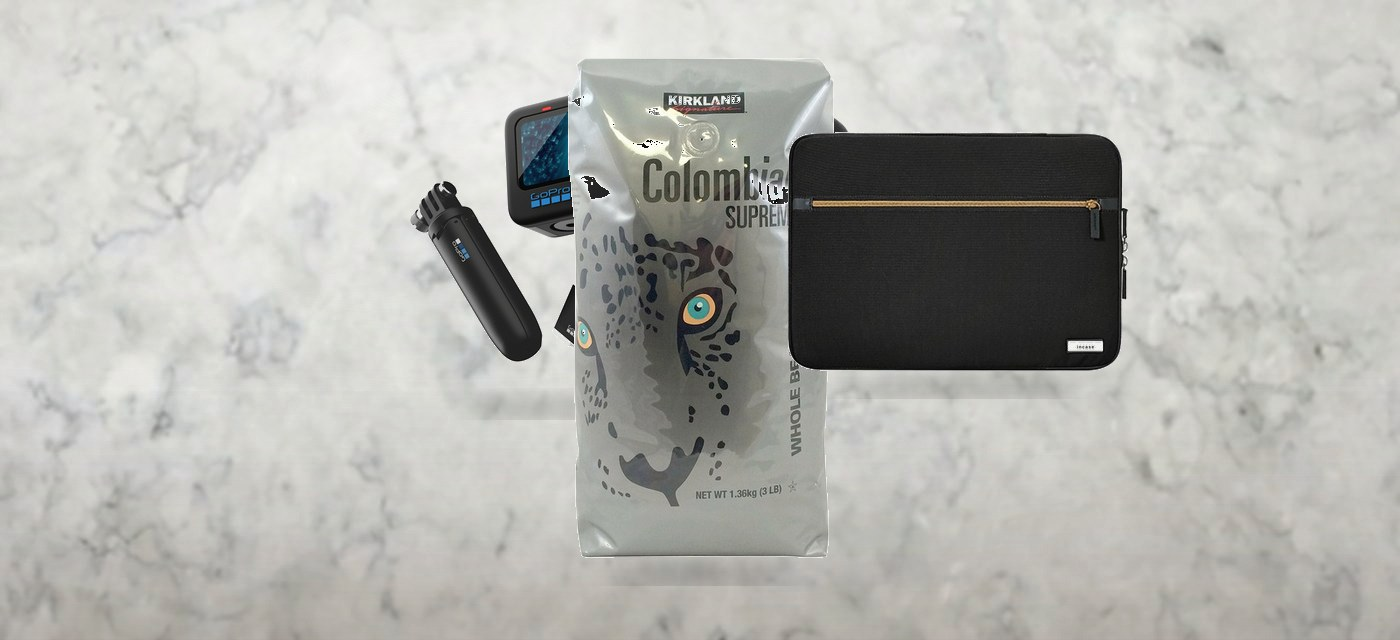
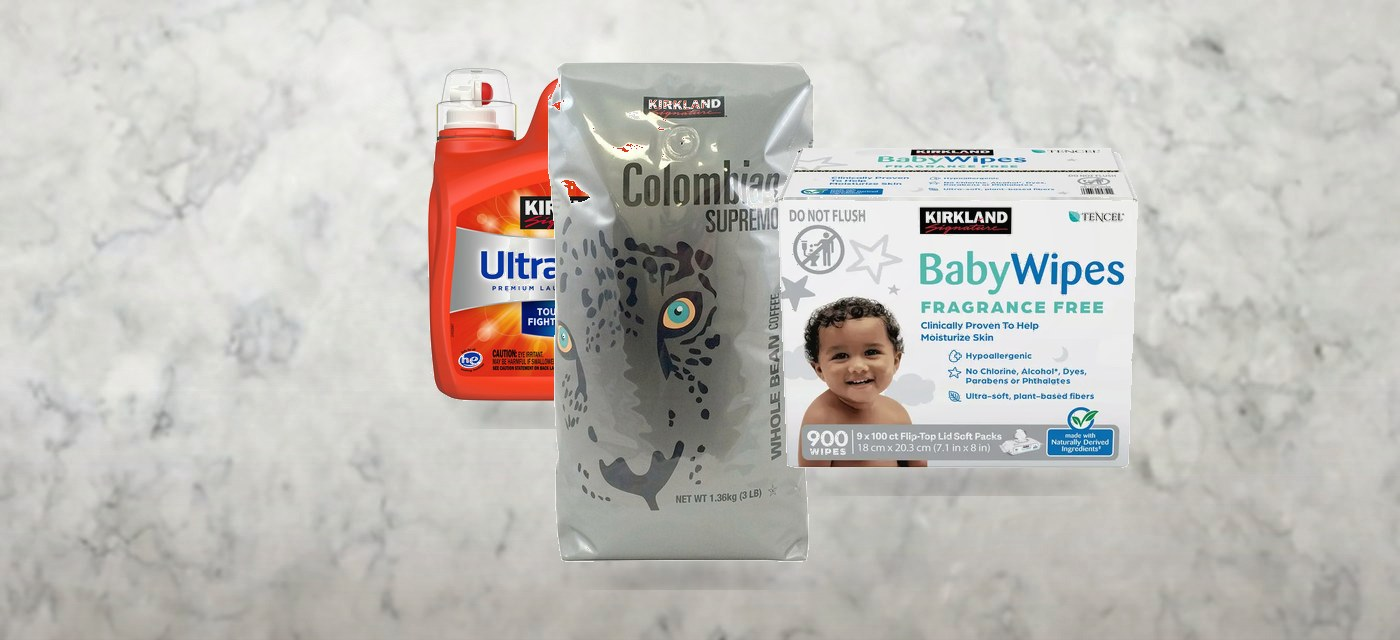
Restyle household collections and Kirk's Gold Star card
Swap the household tile to detergent, coffee, and wipes, and give
Ask Kirk cream Gold Star card stock so the agent rail reads like a
membership card rather than a generic chat header.

Changed region(s): [[0.2764, 0.0938, 0.8293, 0.875]]

diff --git a/components/AskKirkChat.tsx b/components/AskKirkChat.tsx
@@ -495,7 +495,7 @@ export default function AskKirkChat({ isOpen, onClose }: AskKirkChatProps) {
   return (
     <>
     <aside className="fixed inset-y-0 right-0 z-40 w-full max-w-[420px] lg:static lg:z-30 lg:w-[380px] xl:w-[420px] lg:max-w-none shrink-0 bg-white border-l border-[#e5e5e5] h-full flex flex-col">
-      <div className="shrink-0 border-b border-[#e5e5e5] bg-white">
+      <div className="shrink-0 border-b border-[#e5e5e5] bg-[#f7f1de]">
         <div className="h-[6px] bg-costco-red" />
         <div className="px-3.5 pt-2.5 pb-2 flex items-center justify-between gap-2">
           <CostcoLogo compact />
@@ -588,7 +588,7 @@ export default function AskKirkChat({ isOpen, onClose }: AskKirkChatProps) {
             return (
               <div
                 key={message.id}
-                className="bg-white border border-[#e8e8e8] rounded-[8px] overflow-hidden shadow-[0_2px_8px_rgba(0,0,0,0.08)]"
+                className="bg-[#f7f1de] border border-[#d4c194] rounded-[8px] overflow-hidden shadow-[0_2px_8px_rgba(0,0,0,0.08)]"
               >
                 <div className="h-[6px] bg-costco-red" />
                 <div className="px-3.5 py-3">
@@ -607,7 +607,7 @@ export default function AskKirkChat({ isOpen, onClose }: AskKirkChatProps) {
                   </div>
                 </div>
                 <div className="flex items-center gap-3 mb-2">
-                  <div className="w-[56px] h-[68px] rounded-[3px] border border-[#d8d8d8] bg-[#f3f3f3] flex items-center justify-center shrink-0">
+                  <div className="w-[56px] h-[68px] rounded-[3px] border border-[#c9b27a] bg-[#efe6c8] flex items-center justify-center shrink-0">
                     <KirkMark size={36} />
                   </div>
                   <div>

diff --git a/components/ProductGrid.tsx b/components/ProductGrid.tsx
@@ -181,22 +181,22 @@ export default function ProductGrid() {
                   title: "Member Only Savings",
                   subtitle: "7/27/26 – 8/23/26",
                   badge: "Sale ends in 14 days",
-                  image: "/products/hero-weekly.jpg?v=10",
+                  image: "/products/hero-weekly.jpg?v=11",
                   onClick: () => showAisle({ tag: "weekly" }),
                 },
                 {
                   title: "Kirkland Signature",
-                  image: "/products/hero-kirkland.jpg?v=10",
+                  image: "/products/hero-kirkland.jpg?v=11",
                   onClick: () => showAisle({ tag: "kirkland" }),
                 },
                 {
                   title: "This week's featured items",
-                  image: "/products/hero-new.jpg?v=10",
+                  image: "/products/hero-new.jpg?v=11",
                   onClick: () => showAisle({ tag: "trending" }),
                 },
                 {
                   title: "Discounts on household favorites",
-                  image: "/products/hero-treasure.jpg?v=10",
+                  image: "/products/hero-treasure.jpg?v=11",
                   onClick: () => showAisle({ tag: "treasure" }),
                 },
               ] as const
